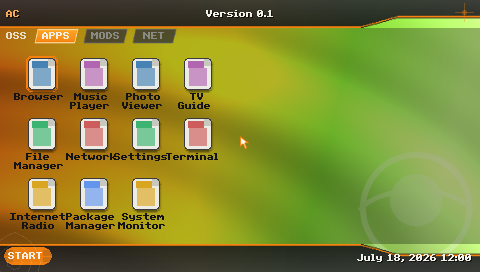
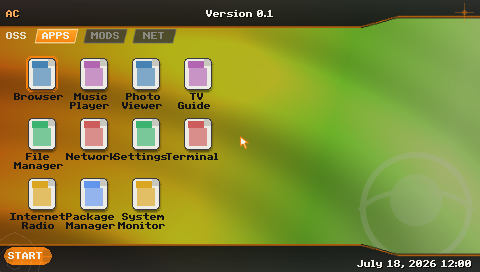
fix(skin): psix-tribute clock shelf + uniform wallpaper tint
The bar_bottom silhouette steps down ~10px on the right into a clock
shelf, but the bottom-bar clock was centered in the full 28px bar and
poked above the shelf's orange edge. Add a themable bar_overrides
clock_offset_y (default 0, so every other skin is untouched) and set it
to 6 for psix-tribute so the clock sits inside the shelf, in both the
classic and media-dock bottombar paths.

Extend the smoked-glass content_bg to the full screen so the wallpaper
seen through the bars' transparent notch cutouts carries the same tint
as the content area — the notches previously read as bright patches.

Changed region(s): [[0.0, 0.8824, 1.0, 1.0], [0.0, 0.0588, 1.0, 0.1176]]

diff --git a/crates/oasis-core/src/bottombar.rs b/crates/oasis-core/src/bottombar.rs
@@ -328,16 +328,21 @@ impl BottomBar {
         let right_edge = if features.clock_in_bottombar {
             let clock_w = text_px(&self.clock_display, font_small);
             let cx = screen_w as i32 - clock_w - 8;
+            // Skins with shaped bar art can nudge the clock into a shelf
+            // that sits below the bar's midline (clock_offset_y).
+            let clock_y = text_y + at.bar.clock_offset_y;
             ensure_text(
                 sdi,
                 "bar_bottom_clock",
                 cx,
-                text_y,
+                clock_y,
                 font_small,
                 at.bar.clock_color,
             );
             if let Ok(obj) = sdi.get_mut("bar_bottom_clock") {
                 obj.set_text(&self.clock_display);
+                obj.x = cx;
+                obj.y = clock_y;
                 obj.visible = true;
                 if at.bar.text_shadow {
                     obj.text_shadow_offset = Some((1, 1));
@@ -548,16 +553,20 @@ impl BottomBar {
         let right_edge = if features.clock_in_bottombar {
             let clock_w = text_px(&self.clock_display, font_small);
             let cx = screen_w as i32 - clock_w - 8;
+            // Same shelf nudge as the classic path (clock_offset_y).
+            let clock_y = text_y + at.bar.clock_offset_y;
             ensure_text(
                 sdi,
                 "bar_bottom_clock",
                 cx,
-                text_y,
+                clock_y,
                 font_small,
                 at.bar.clock_color,
             );
             if let Ok(obj) = sdi.get_mut("bar_bottom_clock") {
                 obj.set_text(&self.clock_display);
+                obj.x = cx;
+                obj.y = clock_y;
                 obj.visible = true;
                 if at.bar.text_shadow {
                     obj.text_shadow_offset = Some((1, 1));

diff --git a/crates/oasis-skin/src/active_theme/derive.rs b/crates/oasis-skin/src/active_theme/derive.rs
@@ -511,6 +511,7 @@ impl ActiveTheme {
                 bar_ov.and_then(|b| b.clock_color.as_ref()).or(bar_text),
                 text,
             ),
+            clock_offset_y: bar_ov.and_then(|b| b.clock_offset_y).unwrap_or(0),
             url_color: ov(bar_ov.and_then(|b| b.url_color.as_ref()).or(bar_text), dim),
             usb_color: ov(bar_ov.and_then(|b| b.usb_color.as_ref()).or(bar_text), dim),
             tab_active_fill: ov(
@@ -1206,6 +1207,7 @@ impl ActiveTheme {
             battery_color: lighten(primary, 0.3),
             version_color: text,
             clock_color: text,
+            clock_offset_y: 0,
             url_color: dim,
             usb_color: dim,
             tab_active_fill: with_alpha(primary, 30),

diff --git a/crates/oasis-skin/src/theme/overrides.rs b/crates/oasis-skin/src/theme/overrides.rs
@@ -161,6 +161,11 @@ pub struct BarOverrides {
     pub version_color: Option<String>,
     #[serde(skip_serializing_if = "Option::is_none")]
     pub clock_color: Option<String>,
+    /// Vertical pixel offset for the bottom-bar clock text (default 0).
+    /// Positive moves the clock down — for shaped bar textures whose
+    /// clock shelf sits lower than the bar's vertical midline.
+    #[serde(default, skip_serializing_if = "Option::is_none")]
+    pub clock_offset_y: Option<i32>,
     #[serde(skip_serializing_if = "Option::is_none")]
     pub url_color: Option<String>,
     #[serde(skip_serializing_if = "Option::is_none")]

diff --git a/crates/oasis-skin/src/active_theme/structs.rs b/crates/oasis-skin/src/active_theme/structs.rs
@@ -69,6 +69,10 @@ pub struct BarTheme {
     pub version_color: Color,
     /// Clock text color.
     pub clock_color: Color,
+    /// Vertical pixel offset for the bottom-bar clock text. Positive moves
+    /// the clock down from its vertically-centered position — for shaped
+    /// bar textures whose clock shelf sits lower than the bar's midline.
+    pub clock_offset_y: i32,
     /// URL label color.
     pub url_color: Color,
     /// USB indicator color.

diff --git a/crates/oasis-skin/src/active_theme/defaults.rs b/crates/oasis-skin/src/active_theme/defaults.rs
@@ -20,6 +20,7 @@ impl Default for ActiveTheme {
                 battery_color: Color::rgb(120, 255, 120),
                 version_color: Color::WHITE,
                 clock_color: Color::WHITE,
+                clock_offset_y: 0,
                 url_color: Color::rgb(200, 200, 200),
                 usb_color: Color::rgb(140, 140, 140),
                 tab_active_fill: Color::rgba(255, 255, 255, 30),

diff --git a/docs/skin-authoring.md b/docs/skin-authoring.md
@@ -281,6 +281,10 @@ tab_active_alpha = 200
 tab_inactive_alpha = 80
 page_dot_active = "#FFFFFFC8"
 page_dot_inactive = "#FFFFFF32"
+# Vertical pixel offset for the bottom-bar clock (default 0). Positive
+# moves the clock down — for shaped bar textures whose clock shelf sits
+# lower than the bar's vertical midline.
+clock_offset_y = 6
 # Also: separator_color, version_color, clock_color, url_color,
 #   usb_color, media_tab_active, media_tab_inactive, pipe_color,
 #   r_hint_color, category_label_color
